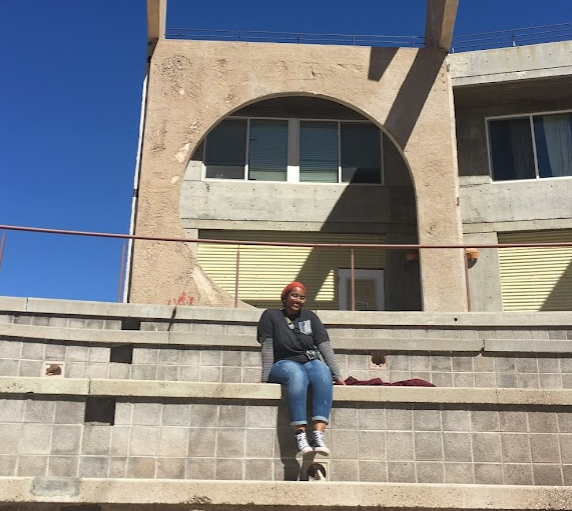
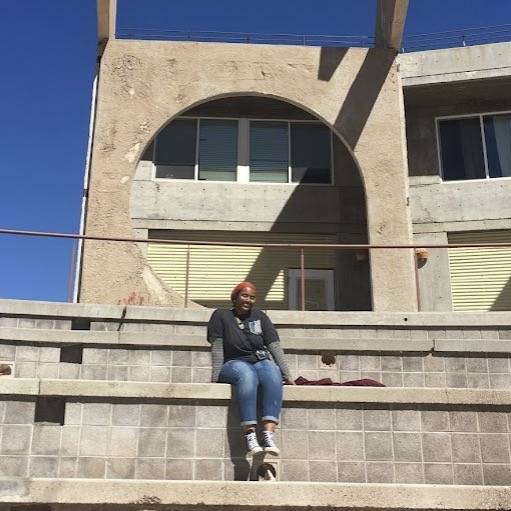
changed to circle intro containter

diff --git a/my-app/src/components/Experience.js b/my-app/src/components/Experience.js
@@ -13,8 +13,7 @@ function Experience(){
                         <p>Summer 2021</p>
                         <div className='experience-item'>
                             <div className='d'>
-                            <p>Interned for the Aladdin Product Group (APG) Data Layer Team developing a Visual 
-                                Studio Code plugin to improve developer productivity.</p>
+                            <p>Interned on the Data Layer Team to develop a Visual Studio Code plugin to improve developer productivity.</p>
                             </div>
                             <div className='skills'>
                             <ul>
@@ -31,7 +30,7 @@ function Experience(){
                         <p>Summer 2020</p>
                         <div className='experience-item'>
                             <div className='d'>
-                            <p>Interned for the Aladdin Product Group (APG) Active Tools Team developing new features and solving bugs in tickets for an Angular application used by internal customers.</p>
+                            <p>Interned on the Active Tools Team to develop new features and fix bugs described in tickets for a web application used by financial investors.</p>
                             </div>
                             <div className='skills'>
                             <ul>
@@ -50,7 +49,7 @@ function Experience(){
                         <p>Summer 2019 - Spring 2020</p>
                         <div className='experience-item'>
                             <div className='d'>
-                            <p>Interned on the Web Applications Team and completed two projects developing a web front end for native applications.  </p>
+                            <p>Interned on the Web Applications Team and completed two projects developing a web front end for native applications. </p>
                             </div>
                             <div className='skills'>
                             <ul>

diff --git a/my-app/src/styles/Intro.css b/my-app/src/styles/Intro.css
@@ -13,7 +13,7 @@
 
 #title{
     font-size: 13px;
-  color: #38525a;
+  color: #fcfbf1;
 }
 
 .about-image{
@@ -29,8 +29,8 @@
 }
 
 .profile-img {
-   width: 400px;
-   border-radius: 10px;
+   width: 120px;
+   border-radius: 50%;
 }
 
 
@@ -42,16 +42,17 @@ img {
   
 .link{
     font-size: 29px;
-    color:#2469cb;
+    color:#11262e;
     display: inline-block;
     text-decoration: none;
-    margin-bottom: 20px;
+    
 }
 
-.link:hover{
+
+.link:active::after{
     text-decoration: none;
-    
   }
+
 
   .float-on-hover {
     display: inline-block;
@@ -63,17 +64,17 @@ img {
     transition-duration: 0.3s;
     -webkit-transition-property: transform;
     transition-property: transform;
-    -webkit-transition-timing-function: ease-out;
-    transition-timing-function: ease-out;
+    -webkit-transition-timing-function: 0.1s, ease-out;
+    transition-timing-function: 0.1s, ease-out;
   }
-  .float-on-hover:hover, .float-on-hover:focus, .float-on-hover:active {
+  .float-on-hover:hover {
     -webkit-transform: translateY(-8px);
     transform: translateY(-8px);
   }
+
 .intro-container {
   display: flex;
-  background-color: #fcfbf1;
-  margin-bottom:30px;
+  margin-bottom:20px;
   box-sizing: content-box;
   max-width: 550px;
   min-width: 55%;
@@ -97,11 +98,12 @@ img {
     cursor: pointer;
     font-family: Ubuntu Mono, serif;
     transition-duration: 0.3s;
+    margin-top: 15px;
 
   }
 
   #btn:hover
   {
   background-image:none !important;
-  background-color: rgba(196, 83, 121, 0.952)!important;
+  background-color: #cf5880f4!important;
   }

diff --git a/my-app/src/components/Intro.js b/my-app/src/components/Intro.js
@@ -1,15 +1,20 @@
 import "../styles/Intro.css";
 
 function Intro() {
-  var image = require("../images/sam1.jpg");
+  var image = require("../images/sam3.jpg");
 
   return (
     <div className="intro-container">
       <div className="row">
         <div className="intro-text">
+        <div className="about-image">
+          <img className="profile-img" src={image} alt="samira"></img>
+        </div>
           <div id="title">
             <h1>Samira Said</h1>
+           
             <div id="link">
+            
               <a
                 href="https://www.github.com/samsaid"
                 className="link float-on-hover"
@@ -30,20 +35,14 @@ function Intro() {
                 <i className="fa fa-linkedin"></i>
               </a>
               
-            </div>
+              </div>
             <a href="https://drive.google.com/file/d/147xxVE86JEuwR_w4fQqCJn5woBsaz0Eq/view" target="_blank"> <button id="btn" type="button">Resume as PDF</button></a>
-
-
-            
-
             <div>
 
             </div>
           </div>
         </div>
-        <div className="about-image">
-          <img className="profile-img" src={image} alt="Girl sitting"></img>
-        </div>
+        
       </div>
     </div>
   );

diff --git a/my-app/src/components/Footer.js b/my-app/src/components/Footer.js
@@ -5,7 +5,7 @@ function Footer(){
     var year = date.getFullYear();
     return(
         <footer id='footer'>
-           <p>© {year} Samira Said</p> 
+           <p>  ✿ {year} samira said ✿ </p> 
         </footer>
     );
 }

diff --git a/my-app/src/index.css b/my-app/src/index.css
@@ -5,7 +5,7 @@ body {
     sans-serif;
   -webkit-font-smoothing: antialiased;
   -moz-osx-font-smoothing: grayscale;
-  background: #38525a;
+  background: #304d58;
 }
 
 code {

diff --git a/my-app/src/styles/Footer.css b/my-app/src/styles/Footer.css
@@ -1,5 +1,6 @@
 #footer, #changeText{
-    color: #ffb3cc;
+    color: #11262e;
     text-align: left;
     padding-bottom: 1em;
+    font-size: .87em;
 }
